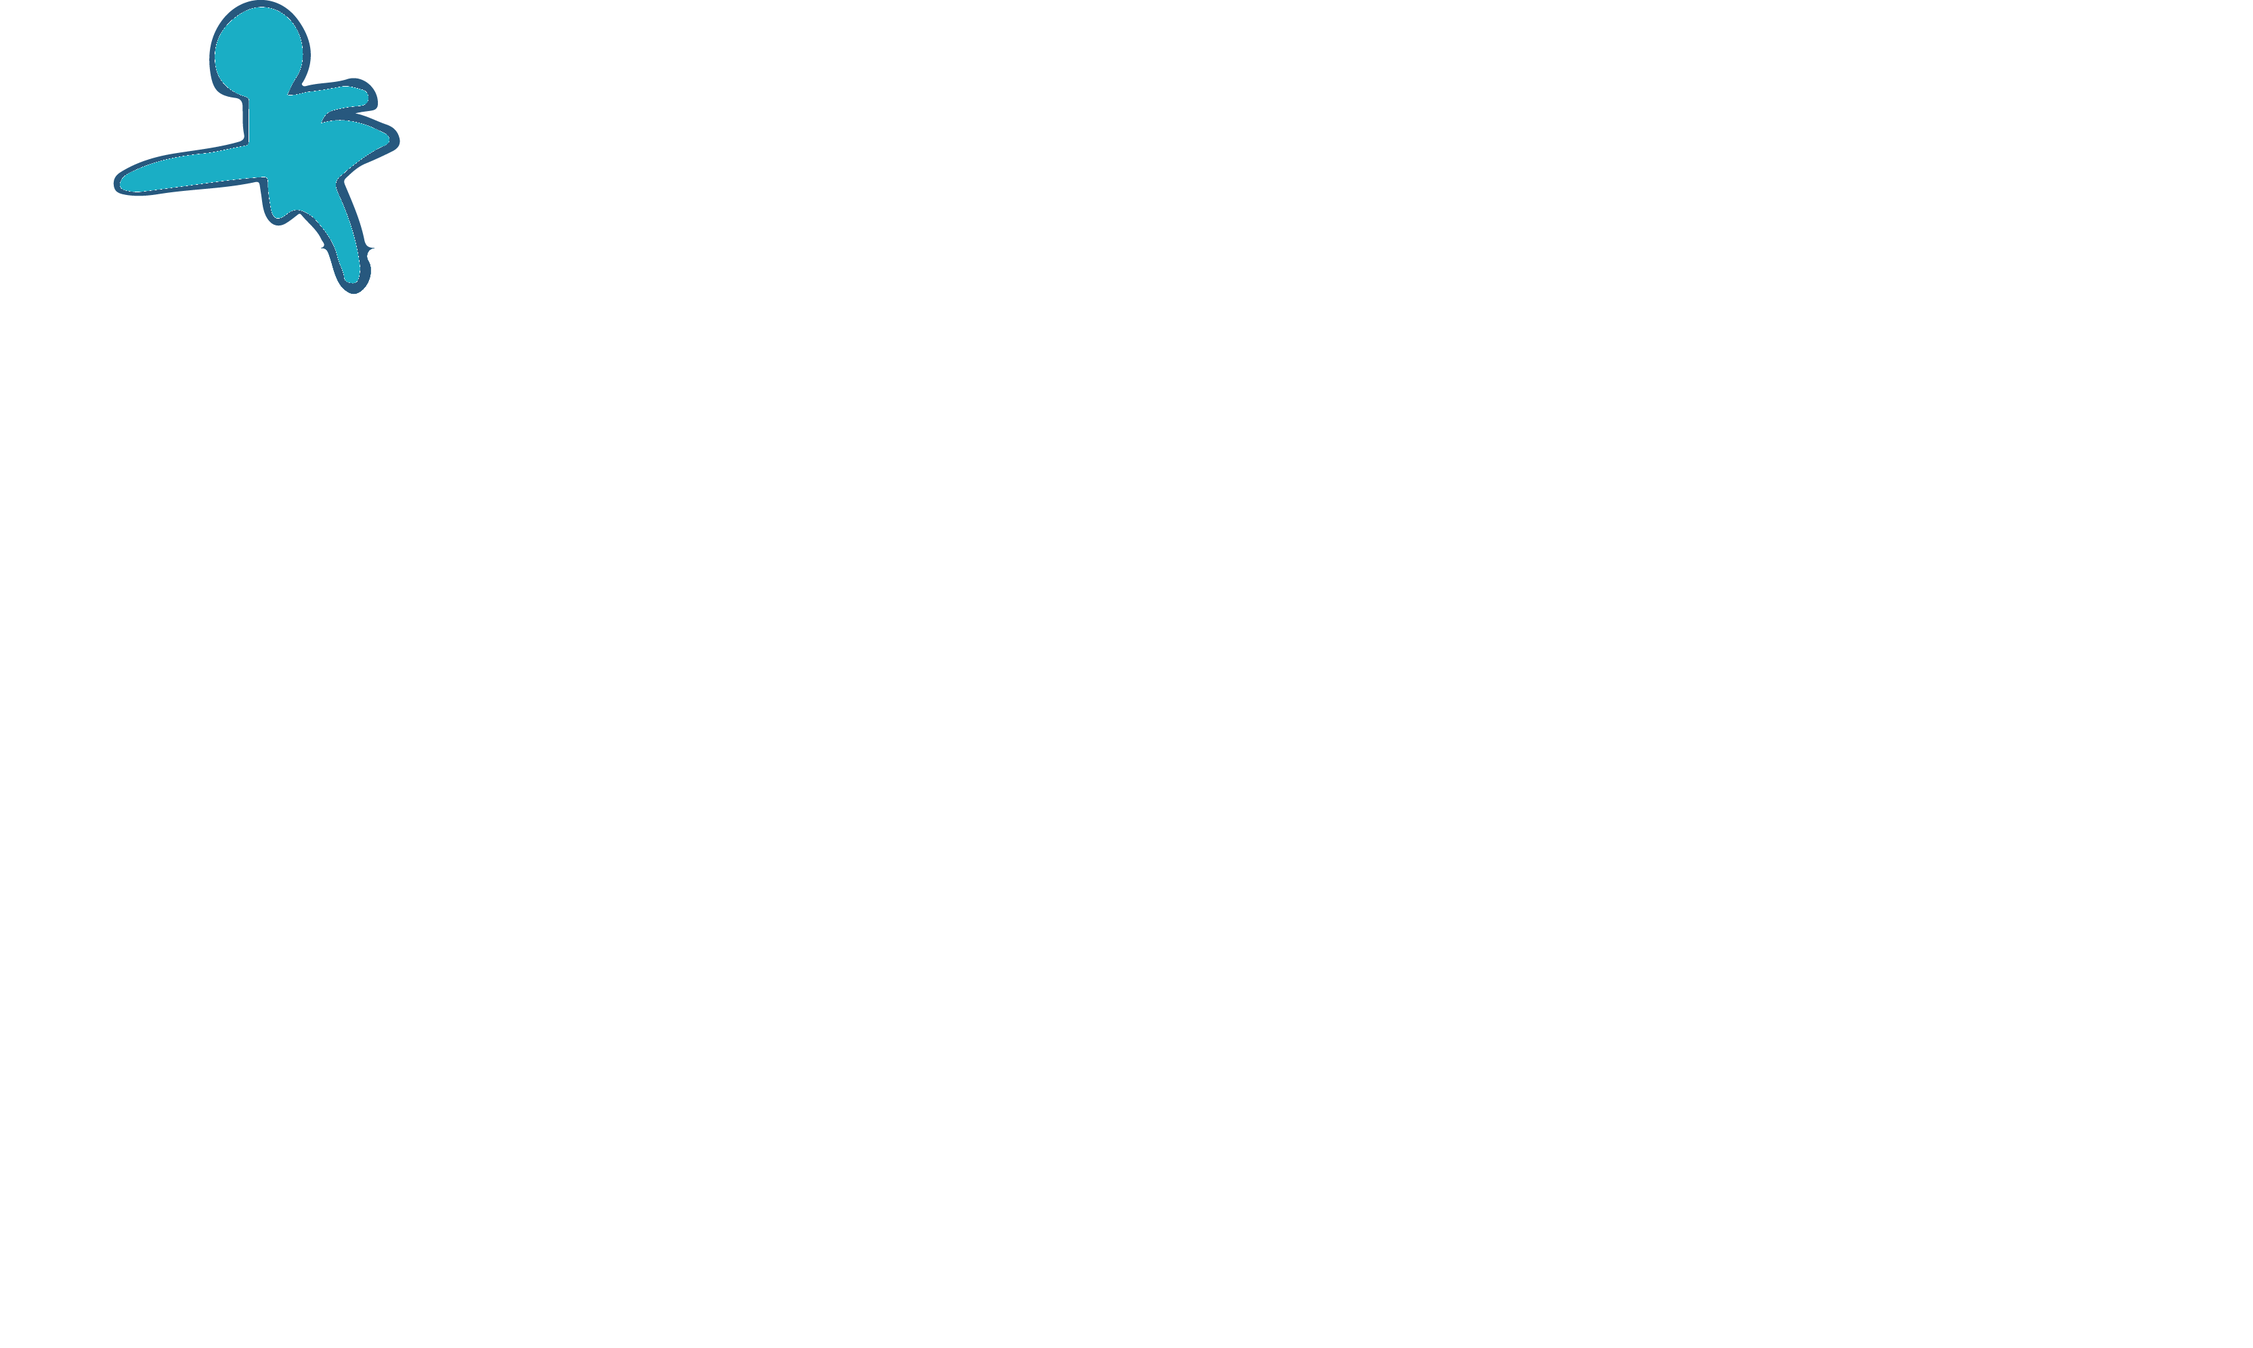
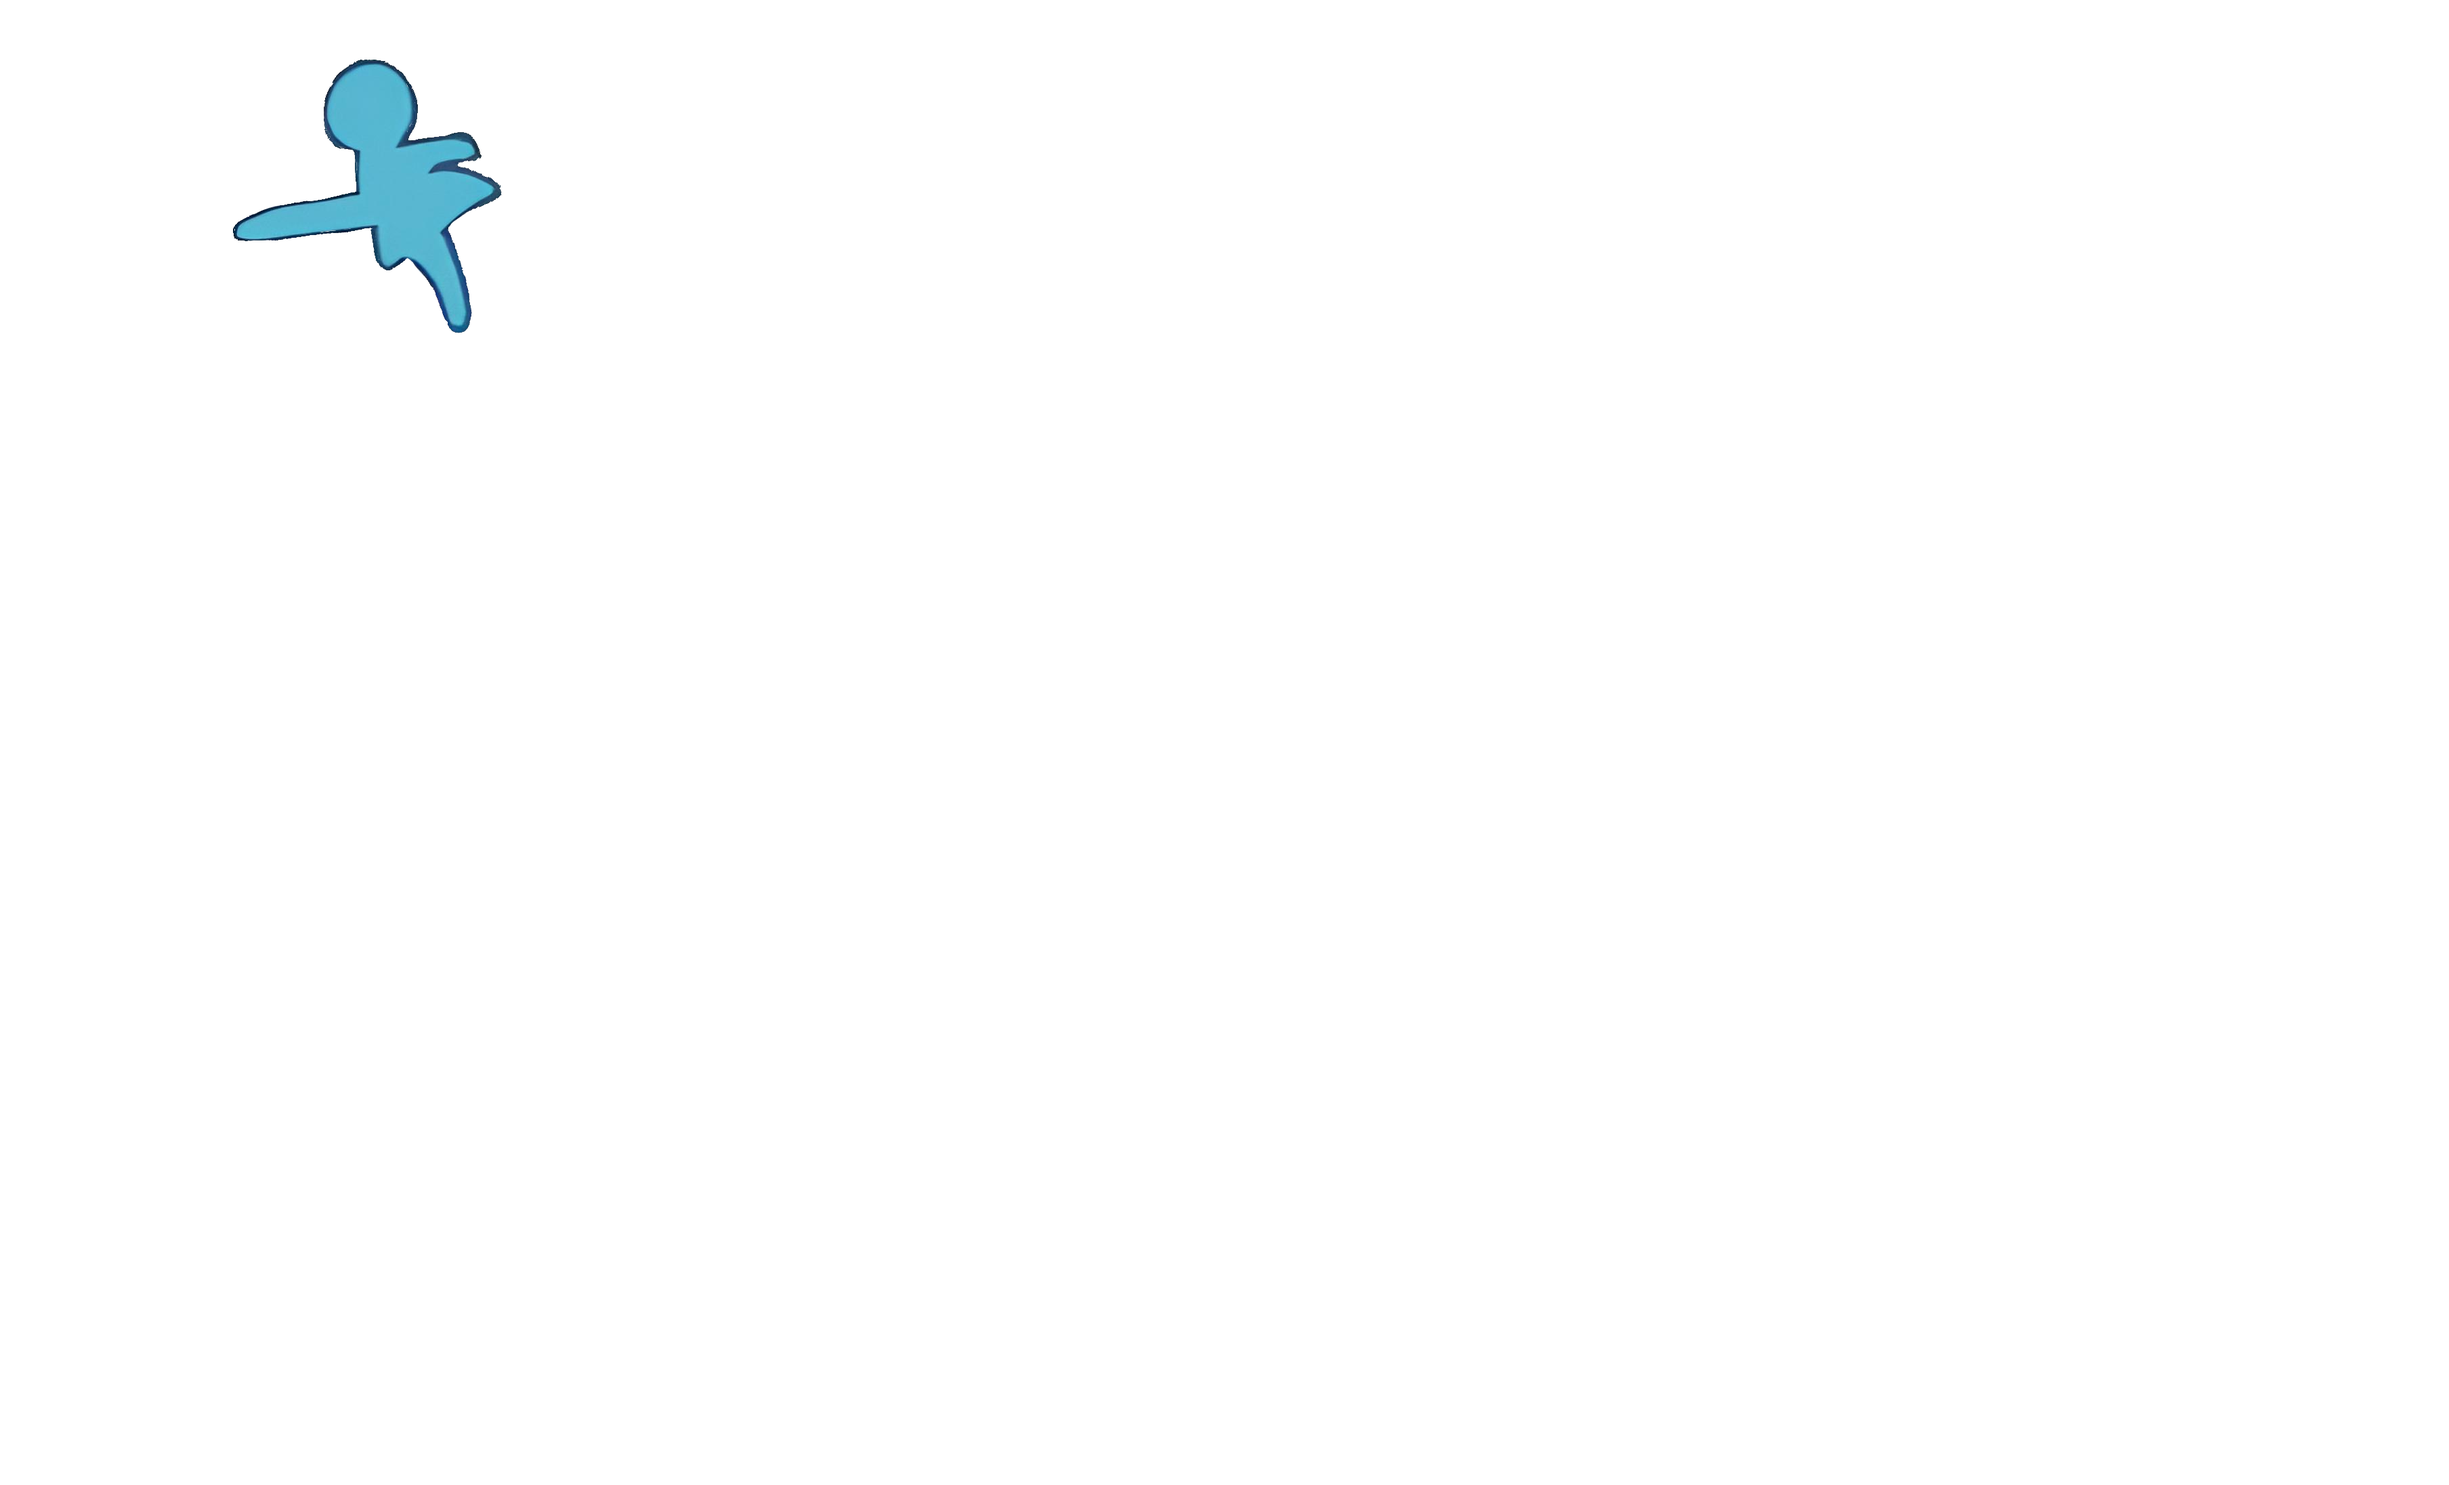
顏色初步改良

Changed region(s): [[0.031, 0.0, 0.2167, 0.218]]

diff --git a/index.html b/index.html
@@ -7,18 +7,40 @@
 <link rel="preconnect" href="https://fonts.googleapis.com">
 <link rel="preconnect" href="https://fonts.gstatic.com" crossorigin>
 <link href="https://fonts.googleapis.com/css2?family=Noto+Serif+TC:wght@700;900&family=Noto+Sans+TC:wght@300;400;500&family=Inter:wght@400;500;600;800&family=DM+Serif+Display&display=swap" rel="stylesheet">
+<link href="https://fonts.googleapis.com/css2?family=Chocolate+Classical+Sans&family=IBM+Plex+Sans+JP&family=LXGW+WenKai+Mono+TC&family=Montserrat:ital,wght@0,100..900;1,100..900&display=swap" rel="stylesheet">
 <style>
   :root {
-    --teal-deep: #0D6E7A;
-    --teal-mid: #1A8FA0;
-    --teal-light: #2DB8CC;
-    --teal-pale: #E8F7FA;
-    --navy: #0A2E35;
+    --teal-deep: #7a570d;   /* #0D6E7A */
+    --teal-mid: #a0681a;    /* #1A8FA0 */
+    --teal-light: #cc822d;  /* #2DB8CC */
+    
+    --teal-pale: #faf4e8;   /* #E8F7FA */
+    --navy: #351c0a;        /* #0A2E35 */
     --white: #FAFCFC;
-    --text: #1A2E31;
-    --text-muted: #5A7A80;
+    --text: #31241a;        /* #1A2E31 */
+    --text-muted: #80715a;
     --gold: #C4933F;
     --gold-light: #F0C96B;
+    --yellow: #FFCB74;
+    --yellow-2: #ffa53f;
+    --yellow-3: #f7a03c;
+    --yellow-11: #FFB300;
+
+    --yellow-3: #B38640;
+    --yellow-4: #8C642A;
+    --yellow-5: #66451A;
+    --yellow-6: #40290D;
+    --yellow-7: #FFDA99;
+    --yellow-8: #FFE6BC;
+    --yellow-9: #FFF1D9;
+    --yellow-10: #FFFAED;
+    
+    --gray-1: #f1f1f1;
+    
+    
+    
+    
+    
   }
 
   * { box-sizing: border-box; margin: 0; padding: 0; }
@@ -26,7 +48,7 @@
   html { scroll-behavior: smooth; }
 
   body {
-    font-family: 'Inter', 'Noto Sans TC', -apple-system, BlinkMacSystemFont, "Segoe UI", Roboto, sans-serif;
+    font-family: 'Chocolate Classical Sans','Inter', 'Noto Sans TC', -apple-system, BlinkMacSystemFont, "Segoe UI", Roboto, sans-serif;
     background: var(--white);
     color: var(--text);
     overflow-x: hidden;
@@ -80,11 +102,11 @@
     background: var(--gold);
     transition: width 0.3s;
   }
-  .nav-links a:hover { color: var(--teal-deep); }
+  .nav-links a:hover { color: var(--yellow-2); }
   .nav-links a:hover::after { width: 100%; }
 
   .nav-cta {
-    background: var(--teal-deep);
+    background: var(--yellow-2);
     color: white !important;
     padding: 10px 24px;
     border-radius: 2px;
@@ -92,7 +114,7 @@
     letter-spacing: 0.12em !important;
     transition: background 0.25s, transform 0.2s !important;
   }
-  .nav-cta:hover { background: var(--teal-mid) !important; transform: translateY(-1px); }
+  .nav-cta:hover { background: var(--yellow-3) !important; transform: translateY(-1px); }
   .nav-cta::after { display: none !important; }
 
   /* ─── HERO ─── */
@@ -101,9 +123,18 @@
     display: grid;
     grid-template-columns: 1fr 1fr;
     align-items: center;
-    padding: 100px 100px 100px;
+    padding: 100px 0 0 0;
     position: relative;
     overflow: hidden;
+  }
+
+  .hero::before {
+    content: '';
+    position: absolute; inset: 0;
+    background:
+      radial-gradient(ellipse 55% 65% at -5% 50%, rgba(232,135,58,0.2) 0%, transparent 60%),
+      radial-gradient(ellipse 40% 50% at 50% 100%, rgba(77,192,212,0.2) 0%, transparent 55%);
+    pointer-events: none;
   }
 
   .hero-bg {
@@ -126,6 +157,7 @@
   .hero-left {
     position: relative;
     z-index: 2;
+    margin-left: 100px;
   }
 
   .hero-eyebrow {
@@ -159,7 +191,7 @@
     animation: fadeUp 0.8s 0.4s forwards;
   }
   .hero-title .accent {
-    color: var(--teal-deep);
+    color: var(--yellow-11);
   }
 
   .hero-desc {
@@ -219,6 +251,9 @@
     display: flex;
     justify-content: center;
     align-items: center;
+    height: calc(100vh - 72px);
+    background: var(--gray-1);
+    clip-path: polygon(6% 0%, 100% 0%, 100% 100%, 0% 100%);
   }
 
   .hero-visual {
@@ -337,57 +372,6 @@
     rotate: 45deg;
     filter: brightness(1.3) drop-shadow(0px 0px 8px rgba(255, 255, 255, 0.8));
   }
-  /* --- End Logo Animation Integrated Styles --- */
-
-  .hero-stats {
-    position: absolute;
-    bottom: 32px;
-    left: 60px;
-    display: flex;
-    gap: 48px;
-    opacity: 0;
-    animation: fadeUp 0.8s 1.2s forwards;
-  }
-
-  .stat-num {
-    font-family: 'DM Serif Display', serif;
-    font-size: 2.2rem;
-    color: var(--teal-deep);
-    line-height: 1;
-    display: block;
-  }
-  .stat-num span { font-size: 1.2rem; }
-  .stat-label {
-    font-size: 0.75rem;
-    color: var(--text-muted);
-    letter-spacing: 0.1em;
-    margin-top: 4px;
-    display: block;
-  }
-
-  .hero-scroll {
-    position: absolute;
-    bottom: 40px;
-    right: 60px;
-    display: flex;
-    flex-direction: column;
-    align-items: center;
-    gap: 8px;
-    opacity: 0;
-    animation: fadeIn 1s 1.5s forwards;
-  }
-  .scroll-text {
-    font-size: 0.65rem;
-    letter-spacing: 0.2em;
-    color: var(--text-muted);
-    writing-mode: vertical-rl;
-  }
-  .scroll-line {
-    width: 1px;
-    height: 50px;
-    background: linear-gradient(to bottom, var(--teal-light), transparent);
-    animation: scrollPulse 1.8s ease-in-out infinite;
-  }
 
   /* ─── SECTION COMMONS ─── */
   section { padding: 100px 60px; }
@@ -479,8 +463,8 @@
     cursor: default;
   }
   .pillar-card:hover {
-    background: rgba(45,184,204,0.1);
-    border-color: rgba(45,184,204,0.3);
+    background: rgba(204, 146, 45, 0.1);
+    border-color: rgba(204, 162, 45, 0.3);
     transform: translateY(-4px);
   }
   .pillar-icon {
@@ -879,7 +863,6 @@
     .hero-right { margin-top: 48px; }
     .hero-desc { margin: 0 auto 44px; }
     .hero-actions { justify-content: center; }
-    .hero-stats { left: 32px; gap: 36px; }
     #about { grid-template-columns: 1fr; gap: 48px; padding: 80px 32px; }
     .courses-grid { grid-template-columns: 1fr; }
     .courses-header { flex-direction: column; align-items: flex-start; gap: 24px; }
@@ -896,7 +879,7 @@
 
 <!-- NAV -->
 <nav>
-  <div class="nav-logo"><img src="static/logo.png" style="height: 60px;"/></div>
+  <div class="nav-logo"><img src="static/logo2.png" style="height: 60px;"/></div>
   <ul class="nav-links">
     <li><a href="#about">關於我們</a></li>
     <li><a href="#courses">課程介紹</a></li>
@@ -912,7 +895,7 @@
   <!-- <div class="hero-grid-lines"></div> -->
 
   <div class="hero-left">
-    <div class="hero-eyebrow">兒童動作感知覺整合教育</div>
+    <div class="hero-eyebrow">Profession</div>
     <h1 class="hero-title">
       讓每個孩子<br>
       都能<span class="accent">飛翔</span>的<br>
@@ -933,9 +916,9 @@
             <img src="static/lego5.png" class="anim-layer block delay-5" alt="積木5">
             
             <img src="static/lego2.png" class="anim-layer block delay-2" alt="積木2">
-            <img src="static/lego3.png" class="anim-layer block delay-3" alt="積木3">
-            <img src="static/lego4.png" class="anim-layer block delay-4" alt="積木4">
             
+            <img src="static/lego4.png" class="anim-layer block delay-4" alt="積木4">
+            <img src="static/lego3.png" class="anim-layer block delay-3" alt="積木3">
             <img src="static/star1.png" class="anim-layer star delay-8" alt="星星1">
             <img src="static/star2.png" class="anim-layer star delay-9" alt="星星2">
 
@@ -948,28 +931,6 @@
     </div>
   </div>
 
-  <div class="hero-scroll">
-    <div class="scroll-line"></div>
-    <span class="scroll-text">SCROLL</span>
-  </div>
-</section>
-
-<!-- NEW STATS SECTION -->
-<section id="achievements" style="background: var(--teal-pale); padding: 80px 60px;">
-  <div class="stats-container" style="max-width: 1200px; margin: 0 auto; display: flex; justify-content: space-around; align-items: center; text-align: center;">
-    <div class="stat-item reveal">
-      <span class="stat-num" style="font-size: 3.5rem; margin-bottom: 8px;">500<span>+</span></span>
-      <span class="stat-label" style="font-size: 0.9rem; letter-spacing: 0.2em; font-weight: 600; color: var(--teal-deep);">服務兒童人數</span>
-    </div>
-    <div class="stat-item reveal reveal-delay-1" style="border-left: 1px solid rgba(13,110,122,0.1); border-right: 1px solid rgba(13,110,122,0.1); padding: 0 60px;">
-      <span class="stat-num" style="font-size: 3.5rem; margin-bottom: 8px;">8<span>年</span></span>
-      <span class="stat-label" style="font-size: 0.9rem; letter-spacing: 0.2em; font-weight: 600; color: var(--teal-deep);">專業臨床經驗</span>
-    </div>
-    <div class="stat-item reveal reveal-delay-2">
-      <span class="stat-num" style="font-size: 3.5rem; margin-bottom: 8px;">98<span>%</span></span>
-      <span class="stat-label" style="font-size: 0.9rem; letter-spacing: 0.2em; font-weight: 600; color: var(--teal-deep);">家長信任滿意度</span>
-    </div>
-  </div>
 </section>
 
 <!-- ABOUT -->
